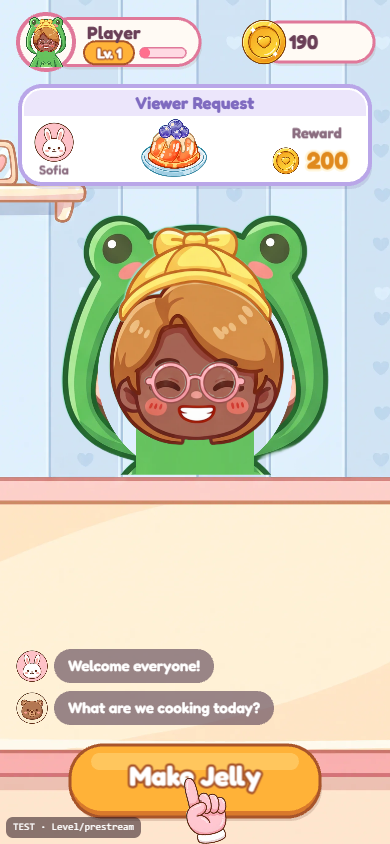
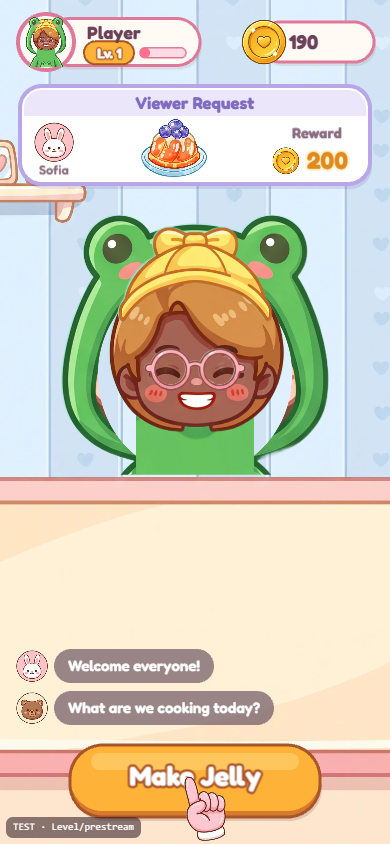
5лвлнезак

Changed region(s): [[0.2769, 0.3389, 0.7385, 0.5237], [0.4615, 0.9242, 0.5846, 1.0], [0.0923, 0.0308, 0.1538, 0.0616]]

diff --git a/src/scenes/HomeScene.js b/src/scenes/HomeScene.js
@@ -195,15 +195,15 @@ export class HomeScene extends BaseScene {
     this.hud.layoutLobby(f, r.hud, gearSize);
     this.settings.layout(r.hud.x + r.hud.w - gearSize / 2, r.hud.y + r.hud.h / 2, f, gearSize);
 
-    const sideScale = r.compact ? 1.10 : 1.30;
-    const sideSize = Math.round(clamp(r.sizes.feature * sideScale, r.sizes.feature, 104));
+    const sideScale = r.compact ? 1.16 : 1.40;
+    const sideSize = Math.round(clamp(r.sizes.feature * sideScale, r.sizes.feature, 112));
     const sideDrop = r.compact
-      ? Math.round(clamp(f.h * 0.018, 10, 14))
-      : Math.round(clamp(f.h * 0.032, 23, 30));
+      ? Math.round(clamp(f.h * 0.024, 14, 18))
+      : Math.round(clamp(f.h * 0.045, 34, 40));
     const sideNudge = r.compact ? 0 : Math.round((sideSize - r.sizes.feature) * 0.35);
     const leftMenu = {
       ...r.leftFeatures,
-      x: r.leftFeatures.x + (r.compact ? 2 : 5),
+      x: r.leftFeatures.x + (r.compact ? 3 : 9),
       y: r.leftFeatures.y + sideDrop,
     };
     layoutSideMenu(this.features.slice(0, 2), leftMenu, f, sideSize);
@@ -217,17 +217,17 @@ export class HomeScene extends BaseScene {
     layoutSideMenu(this.features.slice(2), rightMenu, f, rightSize);
 
     const charH = Math.round(clamp(Math.min(r.character.h * 0.70, f.colW * 0.52), r.compact ? 162 : 192, 250));
-    const charX = f.cx - f.colW * 0.032;
+    const charX = f.cx;
     const charBottom = r.table.y + 3;
     this.streamer.layout({ x: charX, bottom: charBottom, height: charH });
     this.referenceHeroine.setScale(charH / this.referenceHeroine.height).setPosition(charX, charBottom);
     const mascotW = Math.round(r.compact ? clamp(f.colW * 0.18, 70, 86) : clamp(f.colW * 0.23, 86, 108));
     const mascotX = f.cx + f.colW * (r.compact ? 0.17 : 0.22);
     this.mascot.setScale(mascotW / this.mascot.width);
-    const mascotTop = r.table.y - (r.compact ? 18 : 28);
+    const mascotTop = r.table.y + (r.compact ? -18 : 4);
     this.mascot.setPosition(mascotX, mascotTop + this.mascot.displayHeight);
     const bubbleW = Math.round(clamp(f.colW * 0.225, 84, 116));
-    this.bubble.setScale(bubbleW / this.bubble.width).setPosition(f.cx + f.colW * 0.105, r.table.y - charH * 1.30);
+    this.bubble.setScale(bubbleW / this.bubble.width).setPosition(f.cx + f.colW * 0.075, r.table.y - charH * 1.30);
     this.bubbleDish.setScale((bubbleW * 0.52) / Math.max(this.bubbleDish.width, this.bubbleDish.height)).setPosition(this.bubble.x + 3, this.bubble.y - 3);
 
     const placematW = Math.round(clamp(f.colW * 0.66, 238, 330));

diff --git a/project/STATUS.md b/project/STATUS.md
@@ -1,6 +1,6 @@
 # Current project status
 
-Updated: 2026-10-06 — CP3 five-level build plus reference-locked Lobby and polished Character Customization candidate, production preview ready for game-designer review.
+Updated: 2026-10-06 — CP3 five-level build plus reference-locked Lobby and corrected reference-matched Character Customization candidate, production preview ready for game-designer review.
 
 ## Implemented
 
@@ -12,9 +12,10 @@ Updated: 2026-10-06 — CP3 five-level build plus reference-locked Lobby and pol
 - Lobby layout is structural: top HUD, left features, right features, center character, table and bottom navigation have recomputed bounds, shared spacing tokens and controlled min/preferred/max sizes. The reference-led z-order is background → character/accessories → foreground table → table objects → feature buttons → HUD → feedback → popup.
 - The character is now physically masked by the foreground table instead of rendering over it. The thought bubble, mascot, plate and props have independent reference-led anchors; left/right features share one three-row rhythm; wide-screen HUD content remains in the centred gameplay column instead of stretching into a banner.
 - Lobby controls have restrained hover/press feedback. All still-deferred secondary entrances respond with a safe `Soon` state; Start remains the dominant action and Skin opens Character Customization.
-- The five Lobby side controls now render at 130% of the original unified size on portrait screens and both columns sit lower in the composition. Compact/short layouts use a safe 110% fallback. Their shared height remains equal; the thought bubble moves left and the mascot now sits fully visible at the right edge of the tabletop so the larger Store and Daily Reward controls remain visually separate.
+- The five Lobby side controls now render at 140% of the original unified size on portrait screens and both columns sit lower in the composition. Compact/short layouts use a safe 116% fallback. Their shared height remains equal; the heroine is centred, the thought bubble moves further left and the mascot sits lower on the tabletop so the larger Store and Daily Reward controls remain visually separate.
 - The existing Skin entrance now opens a reference-led Character Customization wardrobe embedded in the Lobby composition. Seven categories (hairstyle, skin tone, outfit, hats/accessories, glasses, tablecloth and background) each have three options, live preview, cancel/X and Apply. Purchased, owned and equipped states use the shared coin balance and persist in save schema v4; older v1/v2/v3 saves migrate safely.
-- Customization polish now uses head-only Hair/Skin art with no neck at all; the old outfit neck is removed and the selected outfit's own painted fabric closes the space below the chin. Hair/Skin cards and both related tabs use live combination-aware previews, hats stay fully inside the character canvas, eyewear renders above headwear, and the shelf/catalog panel follows the selected tablecloth theme.
+- Customization polish now uses head-only Hair/Skin art with no neck at all; the old outfit neck is removed and the selected outfit's own painted fabric closes the space below the chin. Hair/Skin cards remain combination-aware, while Hair and Skin now have deliberately different category covers. Outfit-specific masks prevent the baked source hair from surviving under the selected head (including Pink Plush and the default hood), glasses derive their vertical anchor from the actual replacement-head eye line, hats stay fully inside the character canvas, and the catalog palette follows the selected tablecloth theme.
+- The Skin catalog now follows the supplied close-up reference: icon-only cream tabs overlap the table/catalog seam, the large orange Close sits in the same row, the category title no longer consumes a competing row, cards are tall cream tiles with a cyan selected frame, the featured second hairstyle carries a readable pink `NEW` badge, and paid items use glossy green coin pills below the cards. Existing accepted art was sufficient, so this correction created no new Higgsfield jobs.
 - The saved look uses aligned full-outfit happy/eating/chewing poses plus generated headwear/glasses. It is rendered in Lobby, HUD/avatar, cooking and livestream/mukbang. Selected tablecloth/background variants also persist and render in Customization and Lobby.
 - Eleven accepted Nano Banana 2 jobs use the actual Skin references: the original outfit/accessory/environment atlases, corrected chewing sprite, corrected open eyewear, and three final 2K head-only hairstyle × skin-tone atlases for happy/eating/chewing. Three intermediate no-neck attempts were visually rejected and are not consumed. Ten separate Higgsfield Background Remover jobs produced the accepted transparent masters. Runtime WebP assets are rebuilt deterministically by `npm run assets`.
 - Five recipes are data-driven in `src/content/levels.js`; screens do not hardcode campaign progression.
@@ -31,14 +32,15 @@ Updated: 2026-10-06 — CP3 five-level build plus reference-locked Lobby and pol
 - Lobby collision/layout matrix passes at 360×800, 375×812, 390×844, 393×873, 412×915, 430×932, 480×640 and 1280×720; dynamic Lobby resize also passes. The dedicated Lobby suite reports 10 passed / 14 intentionally skipped across the viewport matrix, including response checks for Settings, Part-Time, Canteen, Store, Daily, Super Market and Decor; Skin is covered by the separate customization route.
 - The latest rejected-UI correction passes the dedicated 390×844 Lobby interaction/layout/resize run 3/3, the full eight-viewport Lobby matrix 10 passed / 14 intentionally skipped, unit tests 9/9 and the four-test Customization purchase/layer/persistence route 4/4. The post-Apply QA frame confirms that the Lobby shelf changes from lavender to the selected winter-blue tablecloth palette.
 - The unified side-button pass repeats those checks after asset replacement: 390×844 Lobby 3/3, full Lobby matrix 10 passed / 14 intentionally skipped, unit tests 9/9 and Customization 4/4. The captured 390×844 frame confirms readable Part-Time/Canteen/Store/Skin/Daily labels, equal visual height and no overlap with the character or mascot.
-- The subsequent larger/lower side-button layout passes the dedicated 390×844 interaction/layout/live-resize run 3/3 and the full Lobby matrix 10 passed / 14 intentionally skipped; unit tests remain 9/9.
+- The latest larger/lower side-button layout passes all 8 supported Lobby viewport profiles plus the dedicated 390×844 interaction and live-resize routes (2/2). The captured 390×844 frame confirms the increased visual size and lower placement without overlap with the heroine, thought bubble, mascot, table props or bottom navigation.
 - Character Customization layout passes the same eight viewport profiles. The full real-input flow covers all seven categories and passes purchase → preview → Apply → Lobby → reload → cooking → mukbang; Back/cancel preserves the equipped appearance. A separate visual-regression route exercises both hats and both eyewear choices, while assertions verify dynamic Hair/Skin thumbnails/tab icons and the tablecloth-linked panel theme.
+- Latest Skin regression after the catalog/compositor correction: 8/8 supported viewport layouts pass, the dedicated real-input Customization suite passes 4/4, the hat/eyewear visual route passes, and unit tests pass 9/9. Captured 390×844 frames verify one hair silhouette for Orange Cat/Frog/Pink Plush, round and heart glasses on the eye line, distinct Hair/Skin covers, readable `NEW`, and the reference-shaped catalog hierarchy.
 - Latest reference-Lobby regression: 24/24 layout routes passed across the eight supported viewports (Lobby, Customization and full Level 1 UI at each size), dynamic resize passed, and the dedicated four-test customization behavior flow passed 4/4.
 - A complete Level 1 UI route passes at all eight sizes. The audit covers cooking, Viewer Request, mukbang and result, and rejects clipped text, off-screen targets, distorted art, chrome-to-chrome overlap and gameplay-target-to-HUD overlap.
 - The full five-level route was repeated after the Lobby rebuild and passes with the expected final state.
 - Reload persistence passes. Visual QA frames for every cooking step, each mukbang and each result are in `qa/campaign/`.
 - Production build passes. The YouTube SDK, real ads and audio remain intentionally out of scope.
-- Fresh production preview build: 2026-10-06 00:50 +05, bundle `index-DEO2ixZr.js`, `dist/` 8,273,780 bytes. `http://127.0.0.1:4173/` returns HTTP 200 and serves that bundle.
+- Fresh production preview build: 2026-10-06 01:30 +05, bundle `index-0Sllfj0o.js`, `dist/` 8,273,745 bytes. `http://127.0.0.1:4173/` returns HTTP 200 and serves that bundle.
 
 ## Review / known limits
 

diff --git a/project/DECISIONS.md b/project/DECISIONS.md
@@ -74,4 +74,6 @@
 | 2026-10-05 | The Lobby wallet reserves non-overlapping horizontal spans for the coin stack and live number. The bottom navigation shelf extends through the physical bottom edge and derives its fill from the equipped tablecloth's `uiTheme.shelf`. | Direct correction for the coin/number collision, exposed wallpaper below the shelf and mismatched tablecloth/panel color. | Fixed lavender shelf and overlapping coin/text anchors. | Every future tablecloth must keep a coordinated `uiTheme` palette. |
 | 2026-10-05 | The accepted default heroine is the simpler second 4K Nano Banana 2 candidate: round reference-like face, silver bob, green sweater and no skin neck layer. | Direct rejection of the prior character appearance and comparison against `LobbyScreen.jpg`. | Previous no-neck Lobby heroine job `6f60db8c-4520-4ffc-a18f-87ee7d87633d`. | Subjective designer approval on physical phone. |
 | 2026-10-06 | All five Lobby side controls are one visual family with baked exact labels, equal rendered height, equal left/right size, and integrated NEW badges. Runtime scales them by authored height; disconnected lettering or generated measurement annotations are rejected rather than patched into the UI. | Direct correction that Skin/Store/Daily/Job/Canteen differed in size, readability and reference fidelity. | Per-asset longest-side scaling, smaller right column, duplicate live label for Part-Time, and the first Daily cutout without retained lettering. | English labels are baked; localization requires dedicated localized variants. |
-| 2026-10-06 | Lobby side controls render at 130% of the original unified size on portrait screens and 110% on compact/short layouts. Both columns use responsive lower offsets; the thought bubble moves left and the mascot sits fully visible at the right edge of the tabletop to keep Store/Daily clear. | Repeated direct request to make the side-button UI still lower and larger. | Regenerating already accepted art, allowing edge clipping, hiding the mascot behind the table, or forcing the portrait scale into short landscape layouts. | Physical-phone subjective review of the new visual weight. |
+| 2026-10-06 | Lobby side controls render at 140% of the original unified size on portrait screens and 116% on compact/short layouts. Both columns use larger responsive lower offsets; the heroine is centred, the thought bubble shifts further left and the mascot sits lower on the tabletop to keep the enlarged controls clear. | Repeated direct request to make the side-button UI still lower and larger, followed by the 8-viewport collision audit. | The preceding 130%/110% sizing, regenerating accepted art, edge clipping, or allowing the buttons to overlap the heroine, thought bubble or mascot. | Physical-phone subjective review of the new visual weight. |
+| 2026-10-06 | Character Customization uses outfit-specific baked-head removal: hooded outfits replace only the inner head area, Pink Plush removes its entire baked upper head, and eyewear is anchored from the final replacement-head eye line. Hair remains a live hairstyle cover, while Skin uses a distinct portrait cover. | Direct bug report: doubled hair on Pink Plush and the base hairstyle, glasses on the forehead, and identical Hair/Skin covers. | One shared elliptical erase mask, one fixed glasses Y coordinate, and identical live head textures for both category tabs. | Every future outfit requires a checked head mask and eye-line anchor across happy/eating/chewing poses. |
+| 2026-10-06 | The Skin catalog chrome follows the supplied close-up reference: icon-only top tabs, Close in the tab row, cards without competing item-name text, cyan selected outline, readable pink `NEW`, and green coin-price pills below cards. Existing accepted sprites are reused; no new Nano Banana 2 or Background Remover job is needed for this correction. | Direct request to reproduce the supplied Skin UI 1:1; visual inspection showed the necessary surfaces already existed and the mismatch was layout/composition. | The labelled tab strip, separate category-title row, in-card locks/names and top-HUD Close placement. | Designer approval of the final 390×844 production preview and physical-phone feel. |
